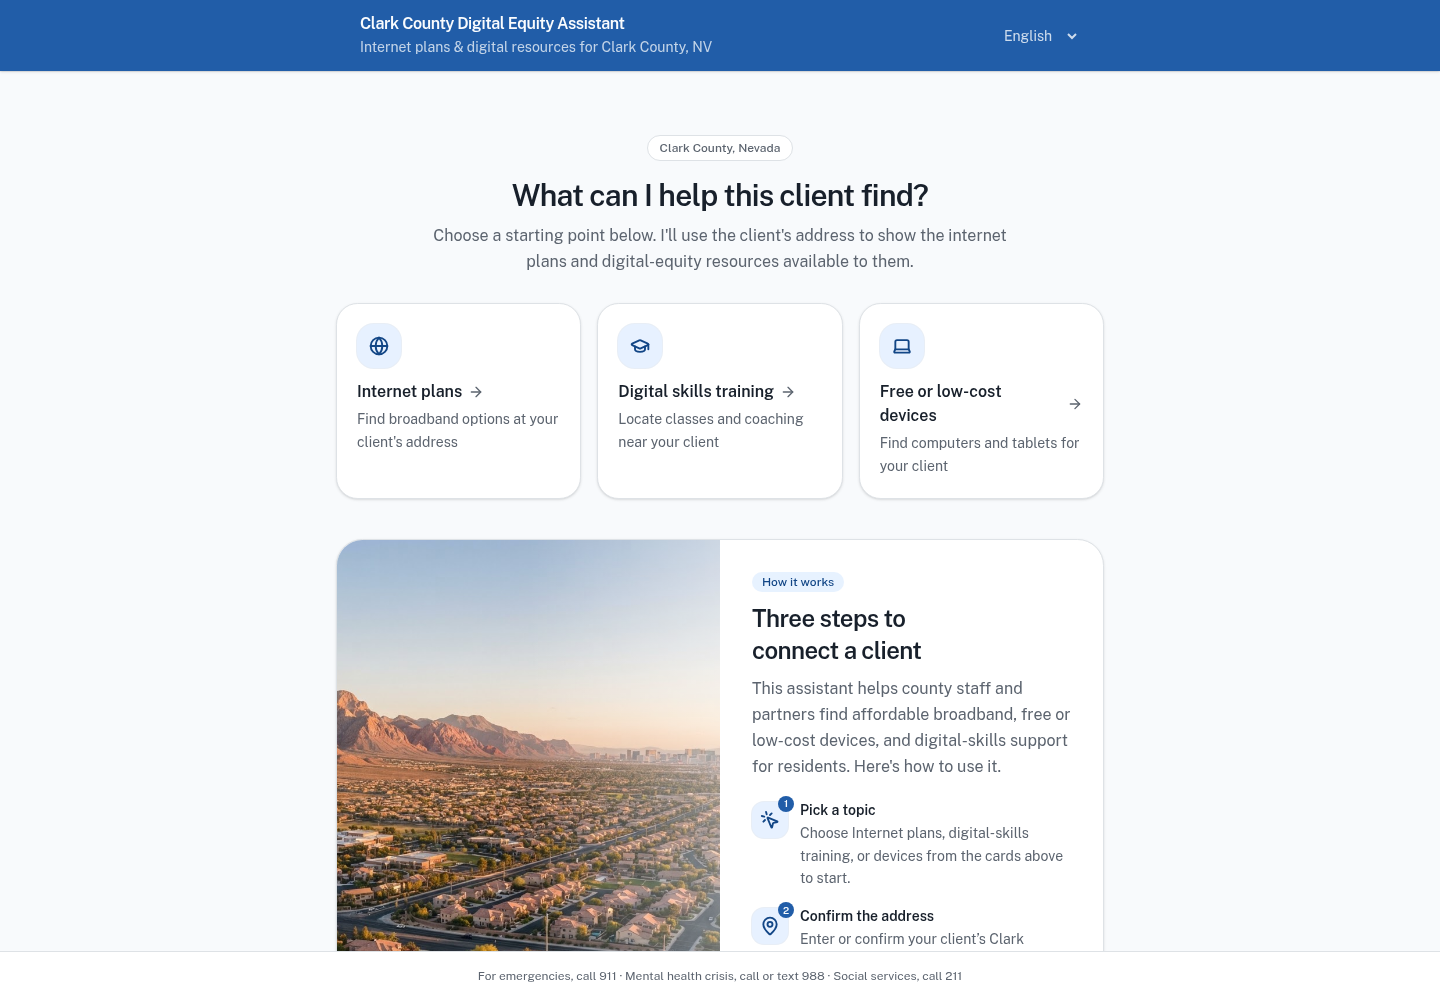
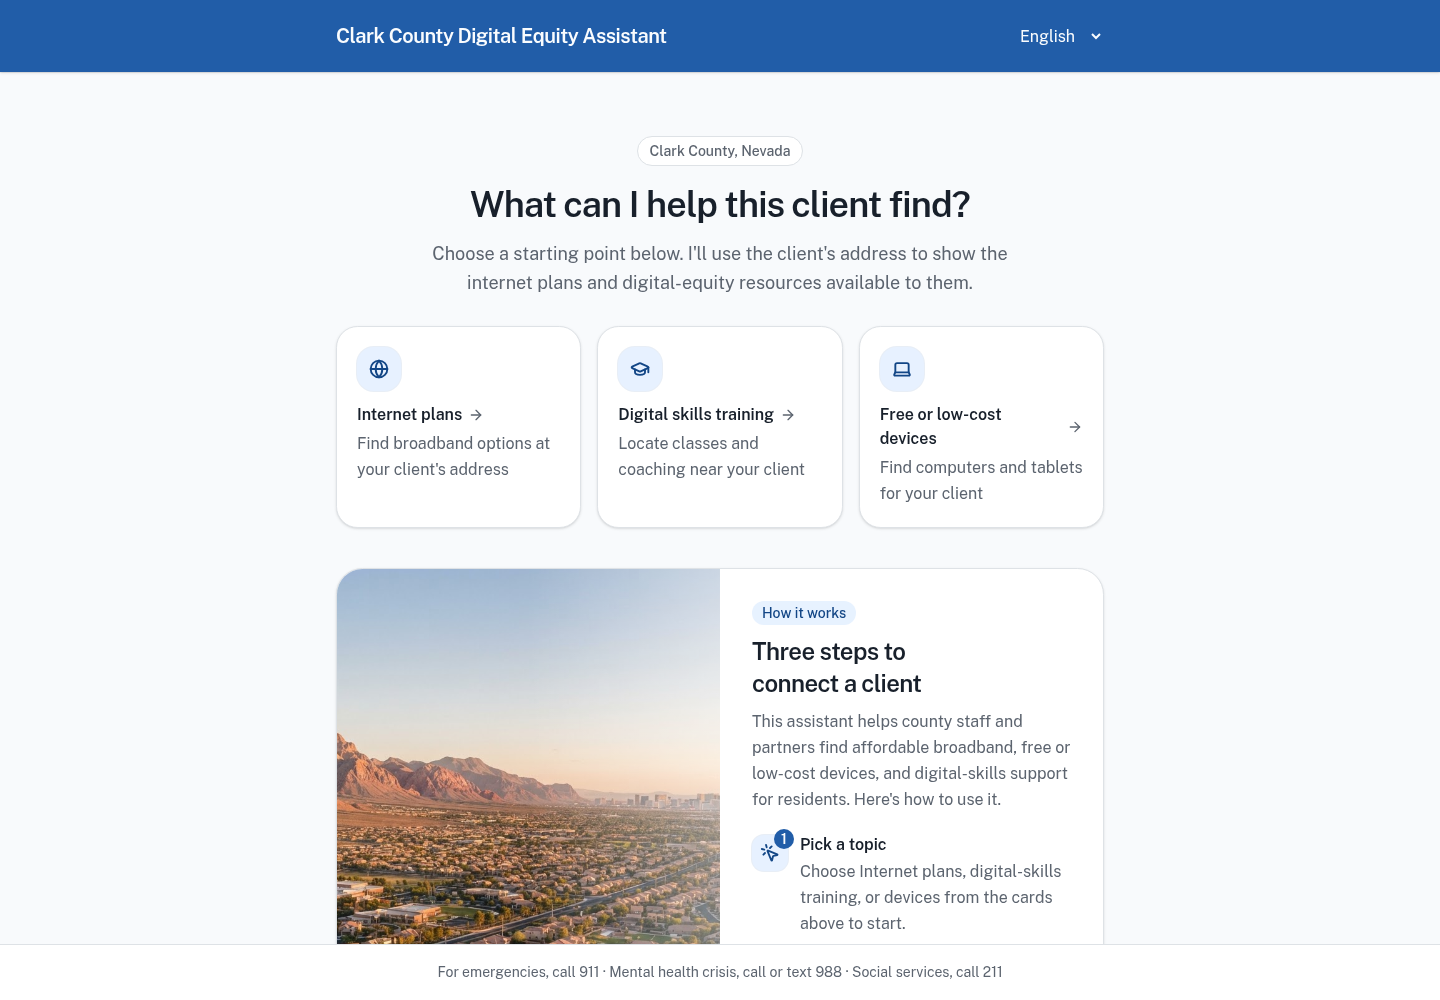
Refresh deck captures, vary slide layouts, and fix mockup sizing

diff --git a/components/presentation/slides.tsx b/components/presentation/slides.tsx
@@ -3,12 +3,16 @@ import { ArrowRight, ArrowUpRight, Check } from "lucide-react";
 import { caseRationales, expertiseMetrics, sources, type DeckVersion, type SlideContent } from "./content";
 
 function Photo({ name = "people-working", className = "" }: { name?: string; className?: string }) {
-  return <Image className={`human-photo ${className}`} src={`/presentation/${name}.jpg`} width={1800} height={1200} alt={name === "people-assistance" ? "Colleagues helping one another at computers, illustrative stock photography" : "People collaborating around laptops, illustrative stock photography"} unoptimized />;
+  return <Image className={`human-photo ${className}`} src={`/presentation/${name}.jpg`} width={1800} height={1200} loading="eager" alt={name === "people-assistance" ? "Colleagues helping one another at computers, illustrative stock photography" : "People collaborating around laptops, illustrative stock photography"} unoptimized />;
 }
 
 export function Device({ type = "desktop", image }: { type?: "desktop" | "tablet" | "phone"; image?: string }) {
-  const label = type === "desktop" ? "Desktop monitor" : type === "tablet" ? "Tablet · portrait" : "Phone · portrait";
-  return <div className={`device device-${type}`}><div className="device-hardware"><div className="device-screen"><Image src={image || `/presentation/clark-${type}.png`} alt={image ? `Actual MHM ecosystem interface in an illustrative ${label.toLowerCase()}` : `Actual Clark County assistant in an illustrative ${label.toLowerCase()}`} width={type === "desktop" ? 1440 : type === "tablet" ? 820 : 390} height={type === "desktop" ? 1000 : type === "tablet" ? 1100 : 844} unoptimized /></div>{type === "desktop" && <div className="monitor-stand" aria-hidden="true"><div /><span /></div>}</div><p className="device-label">{label}</p></div>;
+  const label = type === "desktop" ? "Desktop monitor" : type === "tablet" ? "Tablet" : "Phone";
+  return <div className={`device device-${type}`}><div className="device-hardware"><div className="device-screen"><Image src={image || `/presentation/clark-${type}.png`} alt={image?.includes("mhm-") ? `Actual MHM ecosystem interface in an illustrative ${label.toLowerCase()}` : `Actual Clark County assistant in an illustrative ${label.toLowerCase()}`} width={type === "desktop" ? 1440 : type === "tablet" ? 820 : 390} height={type === "desktop" ? 1000 : type === "tablet" ? 1100 : 844} loading="eager" unoptimized /></div>{type === "desktop" && <div className="monitor-stand" aria-hidden="true"><div /><span /></div>}</div><p className="device-label">{label}</p></div>;
+}
+
+function BrowserCapture({ image, label }: { image: string; label: string }) {
+  return <figure className="browser-capture"><figcaption><span>{label}</span><span>Web application</span></figcaption><Image src={image} width={1440} height={1000} alt={`${label}, actual application screenshot`} loading="eager" unoptimized /></figure>;
 }
 
 function Title({ label, children, description }: { label: string; children: React.ReactNode; description?: string }) {
@@ -47,13 +51,13 @@ export function Slide({ slide, index, version }: { slide: SlideContent; index: n
 
     {slide.kind === "quality" && <div className="quality-composition"><Title label="Quality assurance">Quality is a<br /><span>design decision.</span></Title><div className="quality-checks">{[{ title: "Accurate", text: "Source checks. Expert review." }, { title: "Accessible", text: "Keyboard. Screen reader. Contrast." }, { title: "Responsible", text: "Privacy. Security. Clear limits." }, { title: "Useful", text: "Real tasks. User testing." }].map(item => <div key={item.title}><Check aria-hidden="true" /><div><h3>{item.title}</h3><p>{item.text}</p></div></div>)}</div><p className="quality-caption">Our proposed QA scope: agree acceptance criteria, document gaps, and retest fixes. Accessibility is tested, not assumed; no certification is claimed.</p></div>}
 
-    {slide.kind === "evidence" && <><Title label="Expert-led data design" description="Before designing the interface, establish what the data means, who validates it, and how it stays current.">Useful answers<br /><span>start here.</span></Title><div className="evidence-pipeline">{[{ title: "Source", text: "The right evidence" }, { title: "Structure", text: "A usable model" }, { title: "Validate", text: "Expert judgment" }, { title: "Steward", text: "Named ownership" }].map((item, i) => <div key={item.title}><div className="evidence-sheets" aria-hidden="true">{i === 0 ? "Sources" : i === 1 ? "Definitions" : i === 2 ? "Review" : "Updates"}</div><h3>{item.title}</h3><p>{item.text}</p></div>)}</div></>}
+    {slide.kind === "evidence" && <><Title label="Expert-led data design" description="Before designing the interface, establish what the data means, who validates it, and how it stays current.">Useful answers<br /><span>start here.</span></Title><div className="evidence-pipeline">{[{ title: "Source", text: "The right evidence" }, { title: "Structure", text: "A usable model" }, { title: "Validate", text: "Expert judgment" }, { title: "Steward", text: "Named ownership" }].map((item, i) => <div key={item.title}><div className="evidence-sheets" aria-hidden="true">{i === 0 ? "Records" : i === 1 ? "Definitions" : i === 2 ? "Checks" : "Updates"}</div><h3>{item.title}</h3><p>{item.text}</p></div>)}</div></>}
 
     {slide.kind === "clark-intro" && <div className="case-intro"><div className="case-intro-copy"><p className="eyebrow">Clark County, Nevada</p><h2>A clearer<br />way to<br /><span>connect.</span></h2><p>The Digital Equity Assistant helps county staff and partners find internet, training, and device resources for residents.</p><Tags items={["Internet", "Skills", "Devices"]} /></div><div className="case-intro-visual"><Photo name="people-assistance" /><div className="case-intro-screen"><Device type="tablet" /></div></div></div>}
 
     {(slide.kind === "clark-rationale" || slide.kind === "mhm-rationale") && <CaseRationale kind={slide.kind} />}
 
-    {slide.kind === "clark-features" && <><Title label="Clark County / The experience" description="Choose a need, confirm a location, and review resources. Providers confirm availability and eligibility.">A task. A place. <span>A next step.</span></Title><div className="product-feature-stage"><div className="paired-devices"><Device /><div className="paired-phone"><Device type="phone" /></div></div><div className="feature-rail"><div><h3>Start simply.</h3><p>Choose internet, skills, or devices.</p></div><div><h3>Make it local.</h3><p>Use an address to guide the search.</p></div><div><h3>Move forward.</h3><p>Review options and provider contacts.</p></div><span className="language-label">English / Español interface</span></div></div></>}
+    {slide.kind === "clark-features" && <><Title label="Clark County / The experience" description="Choose a need, confirm a location, and review resources. Providers confirm availability and eligibility.">A task. A place. <span>A next step.</span></Title><div className="product-feature-stage"><div className="paired-devices"><BrowserCapture image="/presentation/clark-desktop.png" label="Clark County / Assistant" /><div className="paired-phone"><Device type="phone" /></div></div><div className="feature-rail"><div><h3>Start simply.</h3><p>Choose internet, skills, or devices.</p></div><div><h3>Make it local.</h3><p>Use an address to guide the search.</p></div><div><h3>Move forward.</h3><p>Review options and provider contacts.</p></div><span className="language-label">English / Español interface</span></div></div></>}
 
     {slide.kind === "clark-people" && <><div className="context-heading"><Title label="Clark County / The human context" description="Staff can guide a resident through questions and discuss relevant options. The tool supports human judgment, not an eligibility decision.">Support the <span>conversation.</span></Title></div><HumanProduct /><Tags items={["Local programs", "Guided questions", "Human judgment"]} /></>}
 
@@ -63,7 +67,7 @@ export function Slide({ slide, index, version }: { slide: SlideContent; index: n
 
     {slide.kind === "mhm-intro" && <div className="mhm-intro-layout"><div><p className="eyebrow">MHM / Regional ecosystem mapping</p><h2>See the network.<br /><span>See the<br />opportunity.</span></h2><p>MHM’s ecosystem tool helps program teams explore digital-equity organizations and relationships across its Texas service regions.</p></div><div className="network-hero"><Device image="/presentation/mhm-network.png" /><p className="capture-context">Bexar County / San Antonio<br />Actual network view · Sep 2026</p></div></div>}
 
-    {slide.kind === "mhm-detail" && <><Title label="MHM / The experience" description="Filter the network, then open an organization to review funding, reporting periods, and connections. Figures reflect available reporting, not audited impact.">From the ecosystem<br /><span>to the organization.</span></Title><div className="mhm-detail-layout"><Device image="/presentation/mhm-detail.png" /><div className="feature-rail"><div><h3>Explore.</h3><p>Compare regional relationships.</p></div><div><h3>Focus.</h3><p>Filter by service and grantee status.</p></div><div><h3>Understand.</h3><p>Review funding and reported reach.</p></div></div></div></>}
+    {slide.kind === "mhm-detail" && <><Title label="MHM / The experience" description="Filter the network, then open an organization to review funding, reporting periods, and connections. Figures reflect available reporting, not audited impact.">From the ecosystem<br /><span>to the organization.</span></Title><div className="mhm-detail-layout"><BrowserCapture image="/presentation/mhm-detail.png" label="MHM / Organization detail" /><div className="feature-rail"><div><h3>Explore.</h3><p>Compare regional relationships.</p></div><div><h3>Focus.</h3><p>Filter by service and grantee status.</p></div><div><h3>Understand.</h3><p>Review funding and reported reach.</p></div></div></div></>}
 
     {slide.kind === "mhm-people" && <><div className="context-heading"><Title label="MHM / The human context" description="Program teams and partners can use a shared view of organizations, funding, and connections to inform discussion, not automate funding decisions.">A shared picture. <span>A better discussion.</span></Title></div><HumanProduct mhm /><Tags items={["Regional context", "Connected organizations", "Reported evidence"]} /></>}
 

diff --git a/app/presentation/editorial.css b/app/presentation/editorial.css
@@ -142,10 +142,10 @@
 .case-intro-copy > p:not(.eyebrow) { font-size: max(16px, 1.7cqw); }
 .case-intro-screen { width: 43%; bottom: 0; }
 .editorial .device-screen { position: relative; border-width: .65cqw; padding: 0; }
-.editorial .device-screen img { width: 100%; height: 100%; object-fit: contain; transform: none; }
-.editorial .device-desktop .device-screen { aspect-ratio: 16 / 10; height: auto; border-bottom-width: 1.2cqw; border-radius: .75cqw; }
-.editorial .device-tablet .device-screen { aspect-ratio: 820 / 1100; height: auto; border-radius: 1.5cqw; border-block-width: 1.2cqw; }
-.editorial .device-phone .device-screen { aspect-ratio: 390 / 844; height: auto; border-radius: 1.7cqw; border-block-width: 1.1cqw; }
+.editorial .device-screen img { display: block; width: 100%; height: auto; object-fit: contain; transform: none; }
+.editorial .device-desktop .device-screen { aspect-ratio: auto; height: auto; border-bottom-width: 1.2cqw; border-radius: .75cqw; }
+.editorial .device-tablet .device-screen { aspect-ratio: auto; height: auto; border-radius: 1.5cqw; border-block-width: 1.2cqw; }
+.editorial .device-phone .device-screen { aspect-ratio: auto; height: auto; border-radius: 1.7cqw; border-block-width: 1.1cqw; }
 .device-hardware { filter: drop-shadow(0 .5cqw 1cqw color-mix(in srgb, var(--deck-ink) 12%, transparent)); }
 .editorial .device-screen { box-shadow: none; }
 .monitor-stand { display: flex; flex-direction: column; align-items: center; }
@@ -168,7 +168,7 @@
 .mhm-intro-layout { grid-template-columns: .9fr 1.2fr; gap: 2.5cqw; }
 .mhm-intro-layout h2 { font-size: 5.5cqw; }
 .network-hero { height: auto; overflow: visible; }
-.network-hero .device-screen img { width: 100%; height: 100%; object-fit: contain; transform: none; }
+.network-hero .device-screen img { width: 100%; height: auto; object-fit: contain; transform: none; }
 .capture-context { font-size: 14px; line-height: 1.5; color: var(--deck-muted); text-align: center; margin-top: 1.4cqw; }
 .mhm-detail-layout { grid-template-columns: 1.4fr 1fr; align-items: center; gap: 4cqw; margin-top: 1.2cqw; }
 .mhm-detail-layout > .device { max-width: 34cqw; justify-self: center; }
@@ -182,6 +182,47 @@
 .case-rationale-copy p { font-size: max(14px, 1.55cqw); line-height: 1.5; color: var(--deck-muted); }
 .case-rationale-layout > .device { width: 43%; flex-shrink: 0; }
 .case-rationale-boundary { font-size: 14px; line-height: 1.5; color: var(--deck-muted); }
+.browser-capture { min-width: 0; overflow: hidden; border: 1px solid color-mix(in srgb, var(--deck-muted) 25%, transparent); border-radius: .8cqw; background: var(--deck-white); color: var(--deck-ink); box-shadow: 0 .5cqw 1.5cqw color-mix(in srgb, var(--deck-ink) 8%, transparent); }
+.browser-capture figcaption { display: flex; align-items: center; justify-content: space-between; padding: .7cqw 1cqw; background: var(--deck-paper); color: var(--deck-muted); font-size: 14px; line-height: 1.4; }
+.browser-capture img { display: block; width: 100%; height: auto; }
+.product-feature-stage { container-type: size; }
+.paired-devices { max-width: min(100%, calc((100cqh - 4cqw) * 1.44 / .86)); }
+.paired-devices > .browser-capture { width: 86%; }
+.paired-phone { width: 21%; left: auto; right: 0; bottom: 0; }
+.paired-phone .device-label { white-space: normal; }
+.mhm-intro-layout, .mhm-detail-layout { container-type: size; }
+.network-hero { width: min(100%, calc((100cqh - 8cqw - 64px) * 1.44)); justify-self: center; }
+.mhm-detail-layout { grid-template-columns: 1.8fr 1fr; }
+.mhm-detail-layout > .browser-capture { width: 100%; max-width: min(40cqw, calc((100cqh - 4cqw) * 1.44)); justify-self: center; }
+.editorial-evidence { display: grid; grid-template-columns: 1fr 1fr; column-gap: 5cqw; grid-template-rows: auto 1fr auto; }
+.editorial-evidence > .slide-top, .editorial-evidence > .slide-bottom { grid-column: 1 / -1; }
+.editorial-evidence > .editorial-heading { align-self: center; }
+.evidence-pipeline { display: flex; flex-direction: column; justify-content: center; margin: 0; gap: 0; }
+.evidence-pipeline > div { position: relative; display: grid; grid-template-columns: 1fr auto; align-items: center; padding-block: 1.5cqw; border-bottom: 1px solid color-mix(in srgb, var(--deck-muted) 20%, transparent); }
+.evidence-pipeline > div:last-child { border-bottom: 0; }
+.evidence-pipeline h3 { grid-column: 1; grid-row: 1; margin: 0; }
+.evidence-pipeline p { grid-column: 1; grid-row: 2; margin-top: .5cqw; }
+.evidence-sheets { grid-column: 2; grid-row: 1 / 3; height: auto; padding: .6cqw .9cqw; border-radius: .5cqw; box-shadow: none; font-size: 14px; }
+.editorial-custom { display: grid; grid-template-columns: 1fr 1fr; column-gap: 5cqw; grid-template-rows: auto 1fr auto; }
+.editorial-custom > .slide-top, .editorial-custom > .slide-bottom { grid-column: 1 / -1; }
+.editorial-custom > .editorial-heading { align-self: center; }
+.custom-grid { display: flex; flex-direction: column; justify-content: center; margin: 0; gap: 2.5cqw; }
+.custom-grid > div { background: transparent; border-radius: 0; padding: 0 0 2cqw; border-bottom: 1px dashed color-mix(in srgb, var(--deck-muted) 35%, transparent); }
+.custom-grid > div:last-child { border: 0; padding-bottom: 0; }
+.custom-grid p { margin-top: .7cqw; }
+.editorial-clark-people { display: grid; grid-template-columns: .9fr 1.1fr; column-gap: 4cqw; grid-template-rows: auto 1fr auto auto; }
+.editorial-clark-people > .slide-top, .editorial-clark-people > .slide-bottom { grid-column: 1 / -1; }
+.editorial-clark-people > .context-heading { align-items: center; }
+.editorial-clark-people > .human-product { grid-column: 2; grid-row: 2 / 4; margin: 0; }
+.editorial-clark-people > .editorial-tags { grid-column: 1; flex-wrap: wrap; font-size: 14px; gap: 1cqw; }
+.editorial-clark-people .human-photo { width: 88%; height: 90%; }
+.editorial-clark-people .human-product-device { width: min(42%, calc((100cqh - 12cqw - 28px) * .462)); right: 0; bottom: 4cqw; }
+.editorial-clark-people > .editorial-tags { align-items: flex-start; flex-direction: column; }
+.editorial-clark-people > .editorial-tags span + span { padding: 0; border: 0; }
+.human-product-monitor > .human-photo { width: 38%; height: 100%; left: auto; right: 0; object-position: 60% center; }
+.human-product-monitor .human-product-device { left: 0; right: auto; bottom: 2.8cqw; width: min(58%, calc((100cqh - 8cqw) * 1.44)); }
+.editorial-closing { background: var(--deck-ink); color: var(--deck-white); }
+.editorial-closing :is(.eyebrow, h2 span, .slide-top > span:last-child, .slide-bottom, p:last-child) { color: var(--deck-white); }
 @media (max-width: 900px) {
   .deck-brand > span { display: none; }
   .edition-switch { margin-right: 4px; }
@@ -282,7 +323,8 @@
   .monitor-stand > div { height: 18px; }
   .monitor-stand > span { height: 4px; }
   .device-label { margin-top: 8px; }
-  .paired-devices { width: 100%; }
+  .product-feature-stage { container-type: normal; }
+  .paired-devices { width: 100%; max-width: none; }
   .paired-devices > .device { width: 84%; max-width: none; }
   .paired-phone { width: 24%; left: auto; right: 0; }
   .paired-phone .device-label { white-space: normal; }
@@ -292,6 +334,25 @@
   .editorial-mhm-people .context-heading h2, .editorial-mhm-detail h2 { font-size: 36px; }
   .network-hero { height: auto; }
   .capture-context { margin-top: 16px; }
+  .editorial-evidence, .editorial-custom, .editorial-clark-people { display: flex; flex-direction: column; }
+  .evidence-pipeline { display: flex; margin-top: 28px; }
+  .evidence-pipeline > div { padding-block: 16px; }
+  .evidence-pipeline h3 { margin: 0; }
+  .evidence-pipeline p { margin-top: 6px; }
+  .evidence-sheets { height: auto; padding: 8px; }
+  .custom-grid { margin-block: 28px; gap: 24px; }
+  .custom-grid > div { padding: 0 0 20px; }
+  .editorial-clark-people > .human-product { flex: none; height: 330px; margin-top: 24px; }
+  .editorial-clark-people .human-product-device { width: 38%; bottom: 36px; }
+  .editorial-clark-people > .editorial-tags { gap: 12px; }
+  .human-product-monitor .human-product-device { width: 62%; bottom: 42px; }
+  .human-product-monitor > .human-photo { width: 38%; height: 82%; }
+  .browser-capture { border-radius: 8px; }
+  .browser-capture figcaption { padding: 8px; }
+  .browser-capture figcaption > span:last-child { display: none; }
+  .mhm-intro-layout, .mhm-detail-layout { container-type: normal; }
+  .network-hero { width: 100%; }
+  .mhm-detail-layout > .browser-capture { max-width: 100%; }
 }
 @media print {
   .print-deck .editorial { padding: .48in .65in .4in; }

diff --git a/components/presentation/content.ts b/components/presentation/content.ts
@@ -50,7 +50,7 @@ const catalog: Record<SlideKind, SlideContent> = {
   "clark-intro": { kind: "clark-intro", chapter: "Clark County · Digital equity", title: "A clearer way to connect.", notes: "The Clark County Digital Equity Assistant is built for county staff and partners helping residents in Clark County, Nevada. It offers three starting tasks: internet plans, digital skills training, and free or low-cost devices. Product screenshots are actual captures of this repository. Do not claim deployment scale, cost savings, referral completion, or provider-guaranteed availability. " + photoNote, sources: [sources.assistance, sources.license] },
   "clark-features": { kind: "clark-features", chapter: "Clark County · Product experience", title: "A task. A place. A next step.", notes: "Visible functionality: task-led entry, English/Spanish interface selection, address lookup, guided questions, resource browsing, and provider contact information. Language selection does not imply that every external resource is translated. Address-level matching is not an eligibility decision or a provider serviceability guarantee. Availability, pricing, and enrollment must be confirmed with the provider. The screenshot is a captured interface, not a live UI within the slide.", sources: [] },
   "clark-people": { kind: "clark-people", chapter: "Clark County · In context", title: "Support the conversation.", notes: "Intended use: a staff member or community partner helps a resident navigate available digital resources. The assistant supports, rather than replaces, professional judgment and human assistance. Local program data, geography, language, and workflow require client-specific design. " + photoNote, sources: [sources.assistance, sources.license] },
-  devices: { kind: "devices", chapter: "Clark County · Responsive by design", title: "Where the work happens.", notes: "Actual browser captures, dimensions verified from the image files: desktop 1440 × 1000, portrait tablet 820 × 1100, and phone 390 × 844. Generic illustrative hardware, not verified physical-device tests or specific manufacturer models. Desktop captures are contained without distortion inside a 16:10 monitor; tablet and phone viewports retain their original aspect ratios. Intended settings: service desk, shared conversations, and outreach. These are responsive web layouts, not native apps, verified offline capability, or cross-device session synchronization. Accessibility still requires explicit testing.", sources: [] },
+  devices: { kind: "devices", chapter: "Clark County · Responsive by design", title: "Where the work happens.", notes: "Actual browser captures, dimensions verified from the image files: desktop 1440 × 1000, portrait tablet 820 × 1100, and phone 390 × 844. Generic illustrative hardware, not verified physical-device tests or specific manufacturer models. Every device frame follows the capture’s original aspect ratio, with hardware borders outside the image. No screen is stretched, cropped, or letterboxed. Clark County captures were refreshed on September 21, 2026, including the compact mobile header. Intended settings: service desk, shared conversations, and outreach. These are responsive web layouts, not native apps, verified offline capability, or cross-device session synchronization. Accessibility still requires explicit testing.", sources: [] },
   custom: { kind: "custom", chapter: "Our core offering", title: "Your context. Not a template.", notes: "Customization covers people and workflow, geography and language, source data and program rules, and ownership and operations. Potential new applications require scoped discovery, source validation, accessibility and security testing, and stewardship. Reuse engineering foundations without presenting hypothetical sector adaptations as delivered products.", sources: [sources.tools] },
   closing: { kind: "closing", chapter: "Let’s build", title: "What should your expertise make possible?", notes: "Close on the custom product development offering: bring a decision, a user need, and domain knowledge; scope an expert-led product around them. Live demonstrations open in new tabs. Use approved public test addresses and no personal resident information. MHM figures in captured screens are as displayed on capture day, not independently audited impact claims.", sources: [sources.tools] },
   "mhm-intro": { kind: "mhm-intro", chapter: "MHM · Ecosystem mapping", title: "See the network. See the opportunity.", notes: "MHM's Regional Grantee & Organization Network supports exploring digital equity organizations and relationships across its Texas service regions. Actual published-product screenshot captured September 21, 2026, in Region D, Bexar County / San Antonio. Network nodes and links are real rendered application output, not invented diagram data. The slide emphasizes visibility and exploration, not proof of causal impact or funding optimization.", sources: [sources.mhm] },

diff --git a/components/presentation/presentation.tsx b/components/presentation/presentation.tsx
@@ -44,6 +44,12 @@ export function Presentation({ version = "chatbot" }: { version?: DeckVersion })
     return () => window.removeEventListener("keydown", onKey);
   }, [go, index, overview, slides.length]);
 
+  useEffect(() => {
+    if (overview) return;
+    window.scrollTo({ top: 0, behavior: "instant" });
+    root.current?.scrollTo({ top: 0, behavior: "instant" });
+  }, [index, overview]);
+
   async function fullscreen() {
     try {
       if (document.fullscreenElement) await document.exitFullscreen();
